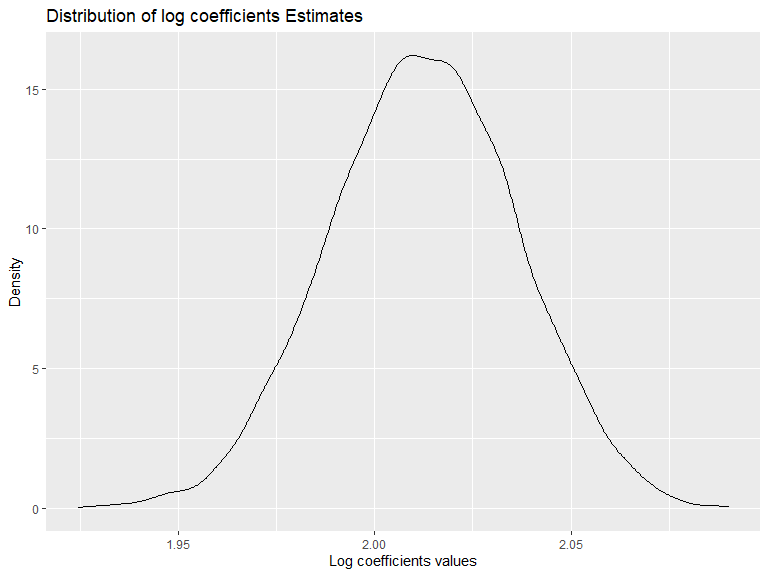
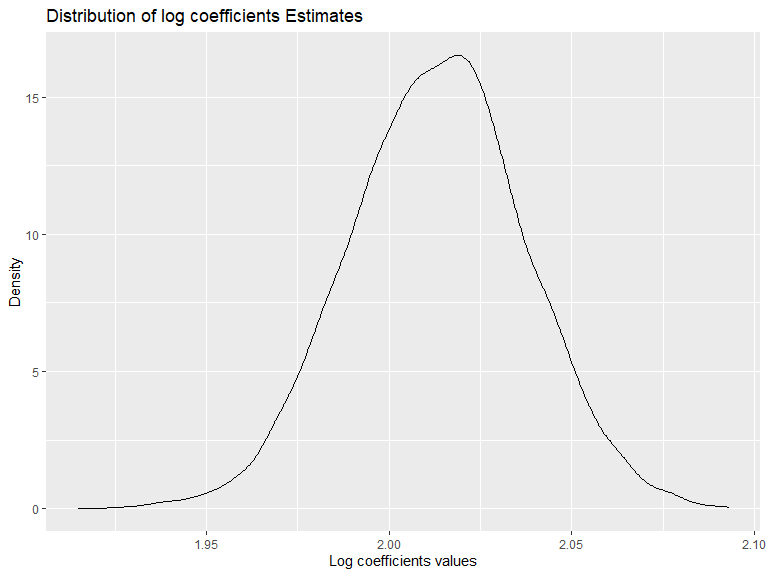
finished

diff --git a/p8105_hw6_jl6048.md b/p8105_hw6_jl6048.md
@@ -260,16 +260,16 @@ bootstrap_r
     ## # A tibble: 5,000 x 13
     ##    .id   r.squared adj.r.squared sigma statistic   p.value    df logLik   AIC
     ##    <chr>     <dbl>         <dbl> <dbl>     <dbl>     <dbl> <dbl>  <dbl> <dbl>
-    ##  1 0001      0.911         0.911  3.00     3706. 1.38e-192     1  -918. 1841.
-    ##  2 0002      0.903         0.903  2.96     3391. 3.18e-186     1  -913. 1833.
-    ##  3 0003      0.903         0.902  3.06     3363. 1.22e-185     1  -926. 1857.
-    ##  4 0004      0.910         0.910  3.11     3661. 1.04e-191     1  -931. 1868.
-    ##  5 0005      0.920         0.920  2.80     4178. 3.10e-201     1  -893. 1791.
-    ##  6 0006      0.921         0.921  2.89     4249. 1.88e-202     1  -904. 1815.
-    ##  7 0007      0.926         0.926  2.65     4557. 1.48e-207     1  -873. 1752.
-    ##  8 0008      0.907         0.907  2.83     3537. 3.07e-189     1  -897. 1800.
-    ##  9 0009      0.907         0.906  3.00     3521. 6.56e-189     1  -918. 1842.
-    ## 10 0010      0.908         0.908  2.93     3594. 2.20e-190     1  -910. 1826.
+    ##  1 0001      0.908         0.908  2.90     3598. 1.85e-190     1  -906. 1818.
+    ##  2 0002      0.920         0.920  2.71     4159. 6.56e-201     1  -881. 1768.
+    ##  3 0003      0.915         0.915  2.93     3930. 8.36e-197     1  -910. 1825.
+    ##  4 0004      0.910         0.909  2.98     3652. 1.58e-191     1  -915. 1836.
+    ##  5 0005      0.892         0.892  2.99     2999. 1.56e-177     1  -917. 1839.
+    ##  6 0006      0.898         0.897  3.04     3185. 9.04e-182     1  -922. 1850.
+    ##  7 0007      0.908         0.908  3.05     3603. 1.44e-190     1  -924. 1854.
+    ##  8 0008      0.917         0.917  2.87     4023. 1.66e-198     1  -902. 1809.
+    ##  9 0009      0.919         0.919  2.74     4143. 1.23e-200     1  -885. 1776.
+    ## 10 0010      0.905         0.905  3.03     3459. 1.20e-187     1  -922. 1850.
     ## # ... with 4,990 more rows, and 4 more variables: BIC <dbl>, deviance <dbl>,
     ## #   df.residual <int>, nobs <int>
 
@@ -311,16 +311,16 @@ bootstrap_log
     ## # A tibble: 5,000 x 4
     ##    id    intercept  tmin beta_log
     ##    <chr>     <dbl> <dbl>    <dbl>
-    ##  1 0001       7.10  1.04     2.00
-    ##  2 0002       7.53  1.02     2.04
-    ##  3 0003       6.82  1.07     1.98
-    ##  4 0004       7.14  1.05     2.02
-    ##  5 0005       7.55  1.03     2.05
-    ##  6 0006       7.20  1.04     2.01
-    ##  7 0007       7.35  1.02     2.01
-    ##  8 0008       7.28  1.04     2.02
-    ##  9 0009       7.77  1.01     2.06
-    ## 10 0010       6.82  1.06     1.97
+    ##  1 0001       7.38  1.04     2.04
+    ##  2 0002       7.30  1.02     2.01
+    ##  3 0003       7.48  1.02     2.03
+    ##  4 0004       7.22  1.05     2.02
+    ##  5 0005       6.96  1.04     1.98
+    ##  6 0006       7.25  1.03     2.01
+    ##  7 0007       6.99  1.04     1.98
+    ##  8 0008       7.15  1.04     2.00
+    ##  9 0009       7.53  1.02     2.04
+    ## 10 0010       7.23  1.06     2.04
     ## # ... with 4,990 more rows
 
 ``` r
@@ -337,7 +337,9 @@ ggplot(aes(x = beta_log)) +
 **Comment:** From the distribution plot, we can easily find that the
 distribution of R Squared looks like a normal distribution but slightly
 left skewed. The log plot looks like more skewed to the normal
-distribution than R.
+distribution than R. R squared with a mean of 0.911 and standard
+deviation of 0.008. Log estimates with a mean of 2.013 and standard
+deviation of 0.024.
 
 Confidence Interval :
 
@@ -352,7 +354,7 @@ bootstrap_r %>%
 
 | CI\_lower\_r | CI\_upper\_r |
 |-------------:|-------------:|
-|        0.895 |        0.927 |
+|        0.894 |        0.927 |
 
 ``` r
 bootstrap_log %>% 
@@ -365,4 +367,4 @@ bootstrap_log %>%
 
 | CI\_lower\_log | CI\_upper\_log |
 |---------------:|---------------:|
-|          1.965 |          2.058 |
+|          1.967 |           2.06 |
